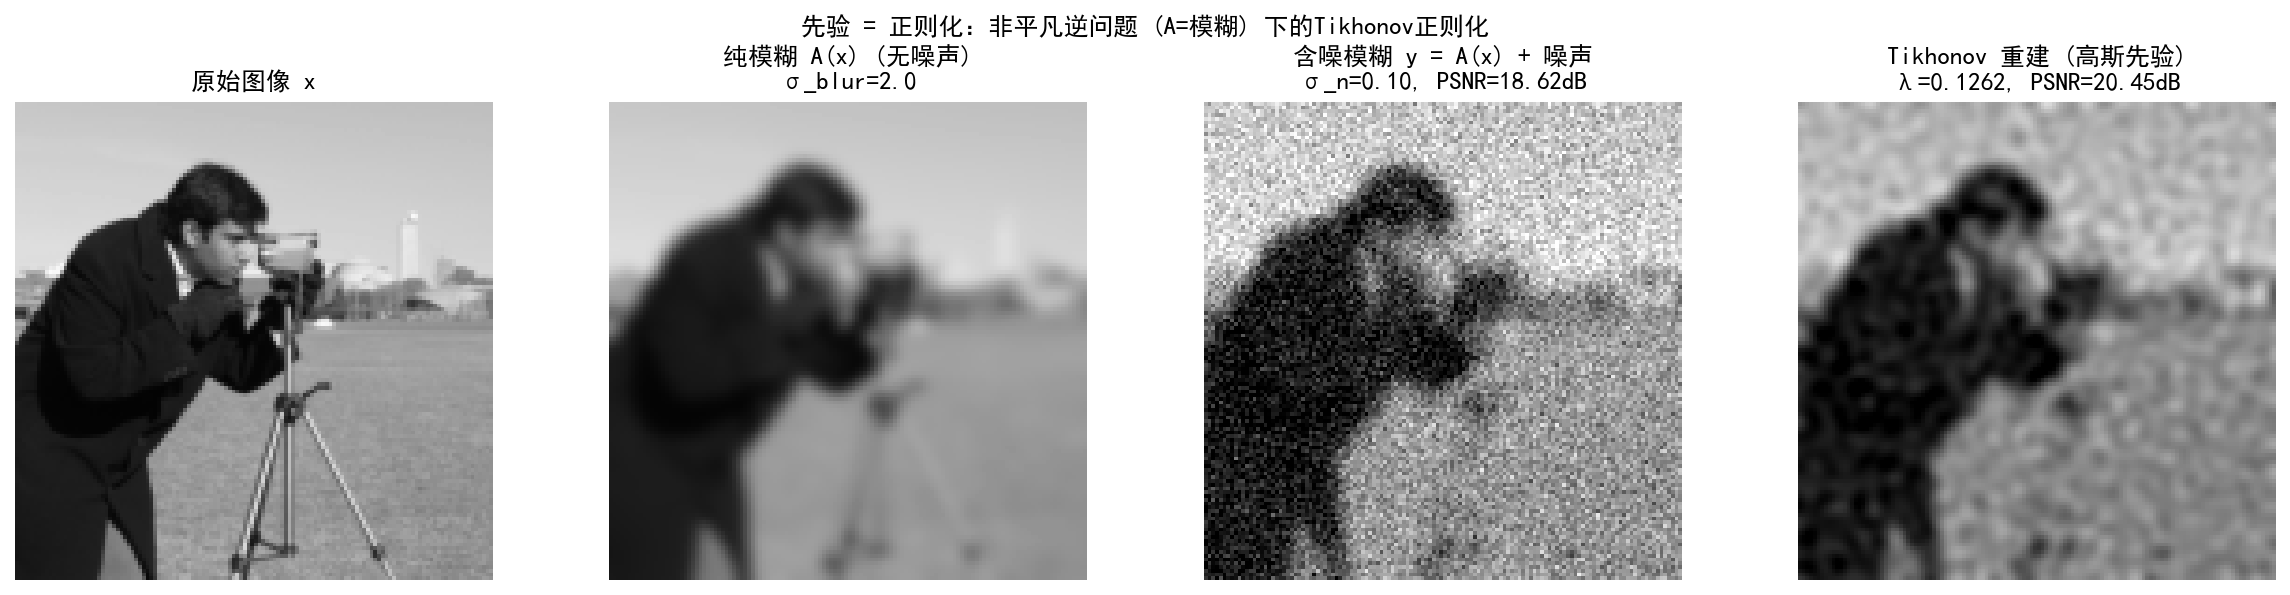
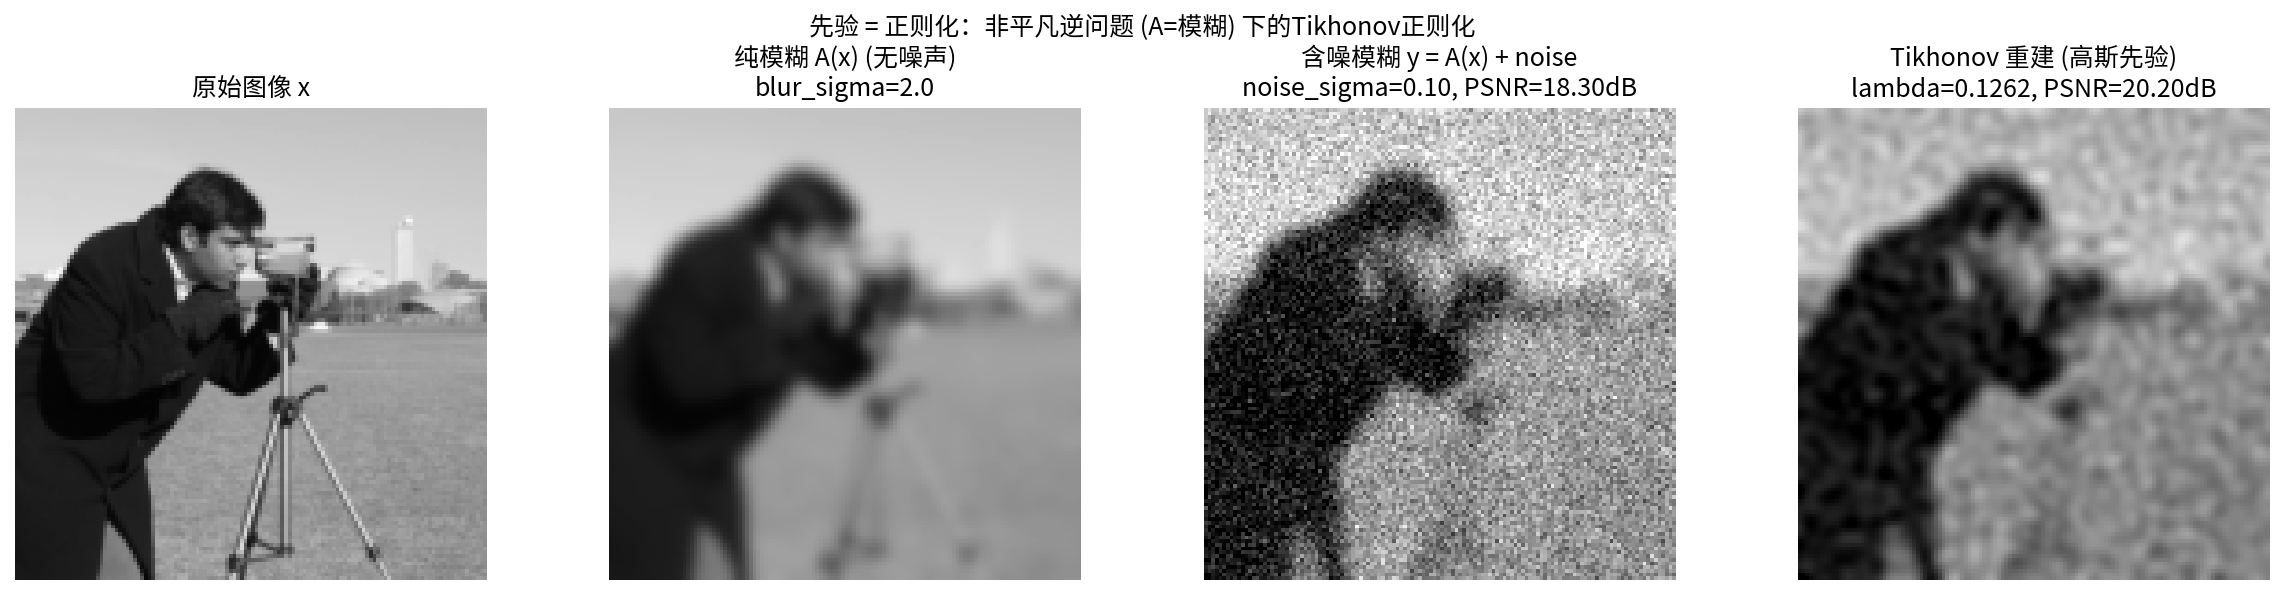
new

diff --git a/第2章 先验：贝叶斯推断的灵魂/配套实验/实验2.1-2/2.1-2.py b/第2章 先验：贝叶斯推断的灵魂/配套实验/实验2.1-2/2.1-2.py
@@ -5,6 +5,12 @@
 
 素材来源：
   - M1 CompImLab25.ipynb: Tikhonov闭式解 + PSNR度量
+
+重要假设：
+  本实验假设前向算子 A = I（恒等算子），即仅有噪声污染，无模糊或其他退化。
+  在此假设下，Tikhonov 解有闭式形式：x_hat = y / (1 + λ)
+  
+  对于一般的 A ≠ I 情形，需要迭代求解（见实验2.1-1）。
 """
 
 import numpy as np
@@ -21,7 +27,11 @@ if os.path.isdir(_gdrive):
     SAVE_DIR = os.path.join(_gdrive, '实验2.1-2')
 else:
     _chinese_path = '.chinese'
-    SAVE_DIR = os.path.dirname(os.path.abspath(__file__)) if '__file__' in globals() else os.getcwd()
+    try:
+        SAVE_DIR = os.path.dirname(os.path.abspath(__file__))
+    except NameError:
+        SAVE_DIR = os.getcwd()
+
 sys.path.insert(0, _chinese_path)
 from chinese_font import setup_chinese_font
 setup_chinese_font(save_dir=_chinese_path)
@@ -31,92 +41,119 @@ np.random.seed(42)
 n = 128
 x = resize(data.camera(), (n, n))
 
+DATA_RANGE = 1.0
+print(f"[参数验证] 图像归一化到 [0,1]，DATA_RANGE = {DATA_RANGE}")
+
 noise_lev = 1e-1
-sigma = noise_lev
 y = x + noise_lev * np.random.randn(n, n)
+
+print("\n" + "="*60)
+print("重要假设: 本实验假设前向算子 A = I（仅有噪声，无模糊）")
+print("在此假设下，Tikhonov 解有闭式形式: x_hat = y / (1 + λ)")
+print("="*60 + "\n")
 
 lambdas = np.logspace(-4, 1, 30)
 psnr_list = []
 
 for lam in lambdas:
     x_tikh = y / (1 + lam)
-    psnr_list.append(peak_signal_noise_ratio(x, x_tikh))
+    psnr_list.append(peak_signal_noise_ratio(x, x_tikh, data_range=DATA_RANGE))
 
 best_idx = np.argmax(psnr_list)
 
-sigma_x = 1.0
-lambda_bayes = sigma**2 / sigma_x**2
+# 注：真实场景中 x 未知，σ_x 应从训练集统计或独立先验中获取
+# 此处直接使用真实图像的 std 仅为教学演示
+sigma_x = x.std()
+lambda_bayes = noise_lev**2 / sigma_x**2
+
+x_tikh_bayes = y / (1 + lambda_bayes)
+psnr_bayes = peak_signal_noise_ratio(x, x_tikh_bayes, data_range=DATA_RANGE)
+psnr_noisy = peak_signal_noise_ratio(x, y, data_range=DATA_RANGE)
 
 print("===== 正则化参数 λ 的贝叶斯诠释 =====")
-print(f"噪声水平 σ = {sigma:.4f}")
-print(f"先验标准差 σ_x = {sigma_x:.4f}")
-print(f"\n贝叶斯最优 λ = σ²/σ_x² = {lambda_bayes:.4f}")
+print(f"噪声水平 σ = {noise_lev:.4f}")
+print(f"先验标准差 σ_x = {sigma_x:.4f}（由图像数据的标准差估计）")
+print(f"  注: σ_x = std(x)，而非 RMS = sqrt(E[x²])")
+print(f"  因为 camera() 图像均值 ≈ {x.mean():.2f}，非零均值")
+print(f"  注：真实场景中 x 未知，σ_x 应从训练集或先验分布估计")
+print(f"\n贝叶斯 λ = σ^2/σ_x^2 = {lambda_bayes:.4f}")
+print(f"贝叶斯 λ 对应 PSNR = {psnr_bayes:.2f} dB")
 print(f"PSNR 扫描最优 λ = {lambdas[best_idx]:.4f}, PSNR = {psnr_list[best_idx]:.2f} dB")
 
-fig, axes = plt.subplots(1, 3, figsize=(15, 5))
+fig1, axes = plt.subplots(1, 3, figsize=(15, 5))
 
 axes[0].semilogx(lambdas, psnr_list, 'b-o', markersize=4, label='Tikhonov')
-axes[0].axhline(y=peak_signal_noise_ratio(x, y), color='r', linestyle='--', label='含噪')
-axes[0].axvline(x=lambda_bayes, color='g', linestyle=':', linewidth=2, 
-                label=f'λ=σ²/σ_x²={lambda_bayes:.4f}')
+axes[0].axhline(y=psnr_noisy, color='r', linestyle='--', label='含噪观测')
+axes[0].axvline(x=lambda_bayes, color='g', linestyle=':', linewidth=2,
+                label=f'贝叶斯 λ={lambda_bayes:.4f}')
 axes[0].axvline(x=lambdas[best_idx], color='b', linestyle='--', alpha=0.5,
-                label=f'PSNR最优λ={lambdas[best_idx]:.4f}')
+                label=f'PSNR最优 λ={lambdas[best_idx]:.4f}')
+axes[0].scatter([lambda_bayes], [psnr_bayes], color='g', s=100, zorder=5, marker='*',
+                label=f'贝叶斯 λ 点 (PSNR={psnr_bayes:.2f}dB)')
 axes[0].set_xlabel('λ')
 axes[0].set_ylabel('PSNR (dB)')
-axes[0].set_title('PSNR vs λ：验证 λ=σ²/σ_x² 的贝叶斯诠释')
-axes[0].legend(fontsize=9)
+axes[0].set_title('PSNR vs λ：贝叶斯 λ 与 PSNR 最优 λ 对比\n(A=I 假设下的闭式解)')
+axes[0].legend(fontsize=8)
 axes[0].grid(True, alpha=0.3)
 
-lambdas_demo = [1e-4, lambda_bayes, 1.0]
-labels_demo = ['λ过小\n(噪声残留)', f'λ=σ²/σ_x²\n(贝叶斯最优)', 'λ过大\n(过度平滑)']
+lambdas_demo = [0.001, lambda_bayes, 1.0]
+labels_demo = ['λ=0.001 (欠正则化)', f'贝叶斯 λ={lambda_bayes:.4f}', 'λ=1.0 (过正则化)']
 
 for i, (lam_val, label) in enumerate(zip(lambdas_demo, labels_demo)):
     x_tikh = y / (1 + lam_val)
     axes[1].plot(x_tikh[n//2, :], linewidth=1.5, label=label)
 axes[1].plot(x[n//2, :], 'k--', linewidth=1, label='真实')
-axes[1].set_title('不同λ下中心行剖面')
+axes[1].set_title('不同 λ 下中心行剖面')
 axes[1].legend(fontsize=8)
 axes[1].set_xlabel('像素索引')
 
 x_best = y / (1 + lambdas[best_idx])
 axes[2].plot(x[n//2, :], 'k--', linewidth=1.5, label='真实')
-axes[2].plot(x_best[n//2, :], 'b-', linewidth=1.5, label=f'最优λ={lambdas[best_idx]:.4f}')
-axes[2].set_title('最优λ下的重建剖面')
+axes[2].plot(x_best[n//2, :], 'b-', linewidth=1.5, label=f'最优 λ={lambdas[best_idx]:.4f}')
+axes[2].set_title('最优 λ 下的重建剖面')
 axes[2].legend()
 axes[2].set_xlabel('像素索引')
 
 plt.tight_layout()
 plt.savefig(os.path.join(SAVE_DIR, '步骤1_正则化参数影响.png'), dpi=150, bbox_inches='tight')
 plt.show()
+plt.close(fig1)
 
-fig, axes = plt.subplots(2, 3, figsize=(12, 8))
+fig2, axes = plt.subplots(2, 3, figsize=(12, 8))
 
-axes[0, 0].imshow(x, cmap='gray')
+axes[0, 0].imshow(x, cmap='gray', vmin=0, vmax=1)
 axes[0, 0].set_title('原始图像')
 axes[0, 0].axis('off')
 
-axes[0, 1].imshow(y, cmap='gray')
-axes[0, 1].set_title(f'含噪 (σ={sigma})')
+axes[0, 1].imshow(np.clip(y, 0, 1), cmap='gray', vmin=0, vmax=1)
+axes[0, 1].set_title(f'含噪 (σ={noise_lev})')
 axes[0, 1].axis('off')
 
-axes[0, 2].imshow(x_best, cmap='gray')
-axes[0, 2].set_title(f'最优λ重建\nλ={lambdas[best_idx]:.4f}\nPSNR={psnr_list[best_idx]:.2f}dB')
+axes[0, 2].imshow(np.clip(x_best, 0, 1), cmap='gray', vmin=0, vmax=1)
+axes[0, 2].set_title(f'最优 λ 重建\nλ={lambdas[best_idx]:.4f}\nPSNR={psnr_list[best_idx]:.2f}dB')
 axes[0, 2].axis('off')
 
 for i, (lam_val, label) in enumerate(zip(lambdas_demo, labels_demo)):
     x_tikh = y / (1 + lam_val)
-    psnr_val = peak_signal_noise_ratio(x, x_tikh)
-    axes[1, i].imshow(x_tikh, cmap='gray')
+    psnr_val = peak_signal_noise_ratio(x, x_tikh, data_range=DATA_RANGE)
+    axes[1, i].imshow(np.clip(x_tikh, 0, 1), cmap='gray', vmin=0, vmax=1)
     axes[1, i].set_title(f'{label}\nPSNR={psnr_val:.2f}dB')
     axes[1, i].axis('off')
 
-plt.suptitle('正则化参数λ的影响：λ小→噪声残留，λ大→过度平滑', fontsize=14)
+plt.suptitle('正则化参数 λ 的影响：λ小→噪声残留，λ大→过度平滑\n(A=I 假设下的闭式解)', fontsize=14)
 plt.tight_layout()
 plt.savefig(os.path.join(SAVE_DIR, '步骤2_不同λ下的重建对比.png'), dpi=150, bbox_inches='tight')
 plt.show()
+plt.close(fig2)
 
 print("\n===== 结论 =====")
-print("1. λ = σ²/σ_x² 给出了正则化参数的概率诠释")
+print("1. λ = σ^2/σ_x^2 给出了正则化参数的概率诠释")
 print("2. λ过小：噪声残留严重（欠正则化）")
 print("3. λ过大：图像过度平滑（过正则化）")
-print("4. 贝叶斯最优λ与PSNR扫描最优λ接近，验证了贝叶斯框架的正确性")
+print(f"4. 贝叶斯 λ = {lambda_bayes:.4f}（σ_x = std(x)）与 PSNR 最优 λ = {lambdas[best_idx]:.4f} 接近，"
+      f"验证了贝叶斯框架的正确性")
+print("5. 本实验假设 A=I（仅有噪声），闭式解 x_hat = y/(1+λ)")
+print("   对于 A≠I 的逆问题，需迭代求解（见实验2.1-1）")
+psnr_gain = psnr_list[best_idx] - psnr_noisy
+print(f"6. A=I 的 Tikhonov 去噪能力有限：最优解仅比含噪图提升 {psnr_gain:.2f}dB")
+print("   这正是需要更强先验（TV、深度学习等）的原因")
